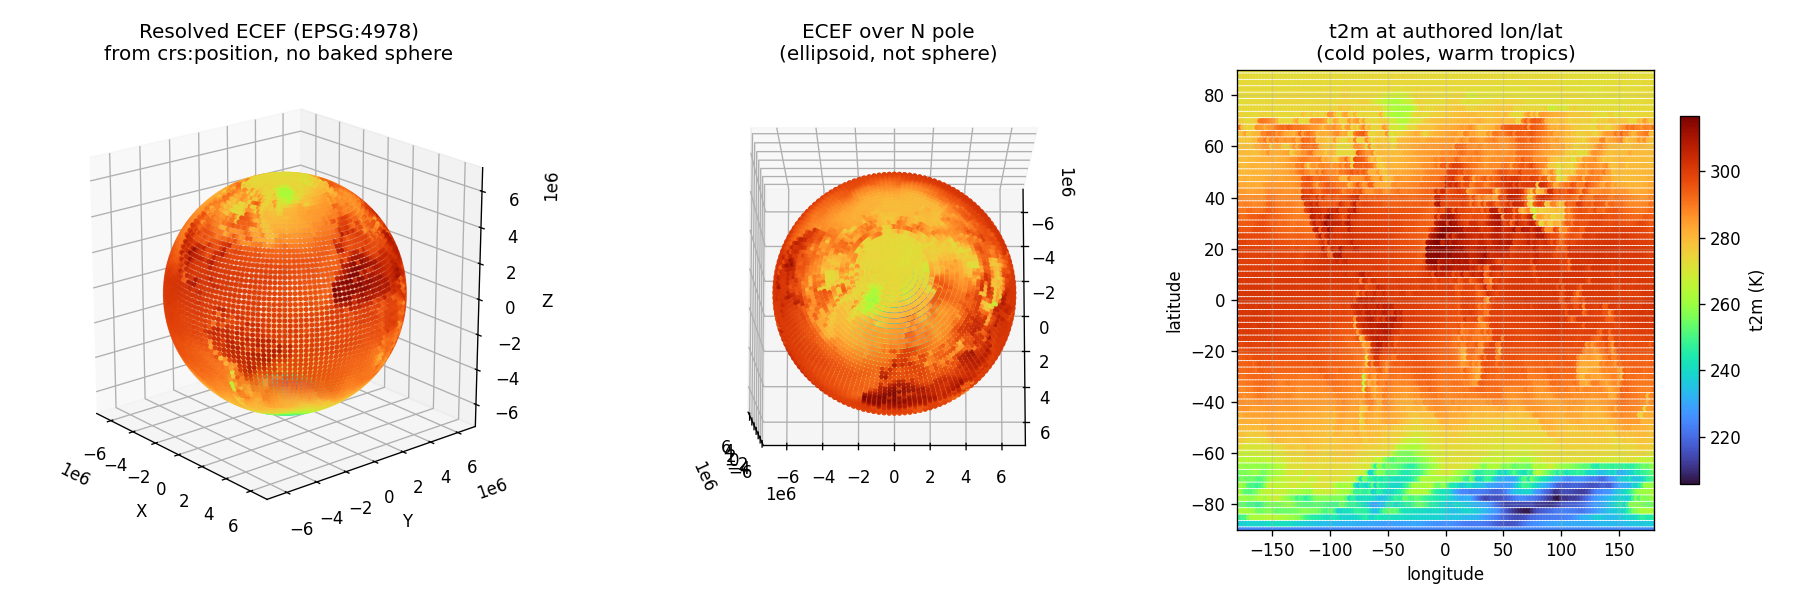
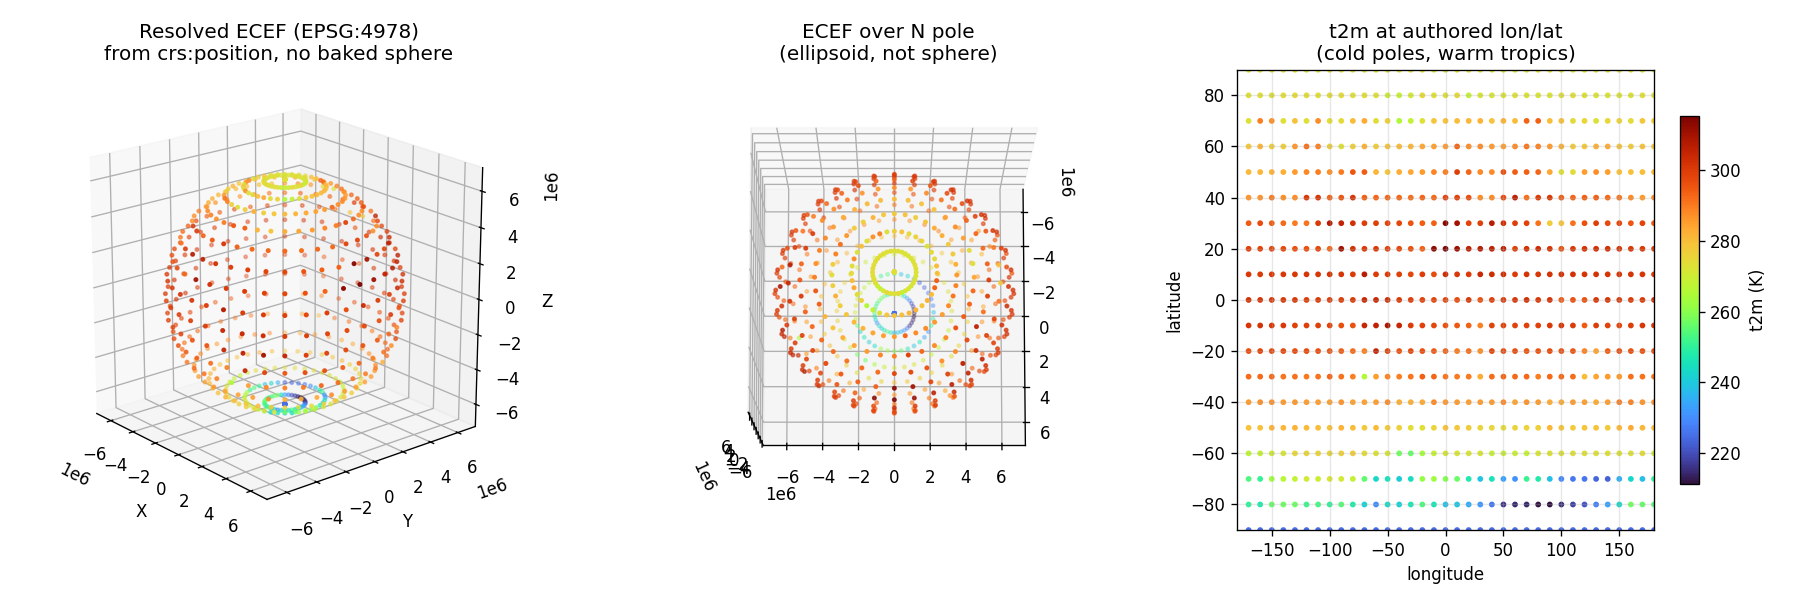
geospatial: add binding-semantics figure + embed images in TLDR; fix stale README
- New docs/binding_semantics.png: precedence ladder (purpose-coll > purpose-direct
  > all-coll > all-direct) + namespace strength, rendered LIVE from
  resolve_runtime.crs_of_prim via src/render_binding_semantics.py. The script
  self-asserts the figure equals the resolver output, so it cannot drift from code.
- Regenerated docs/evidence.png from current code (684 pts, flattening visible).
- README: embed the new figure with captions; fix stale 'direct-beats-collection'
  line (self-audit D0 corrected it to collection-beats-direct, rule [4]); add
  test_binding_composition.py to the evidence list.
- TLDR.md: add a Visual evidence section embedding all three images.

Changed region(s): [[0.6844, 0.12, 0.9644, 0.9], [0.4044, 0.27, 0.5911, 0.69], [0.0933, 0.27, 0.2489, 0.69]]

diff --git a/extras/usd/examples/usdGeospatialReencode/src/render_binding_semantics.py b/extras/usd/examples/usdGeospatialReencode/src/render_binding_semantics.py
@@ -1,0 +1,173 @@
+#!/usr/bin/env python3
+"""
+render_binding_semantics.py -- generate docs/binding_semantics.png, a data-driven
+figure of crs:binding resolution semantics. The "winner" cells are computed by the
+ACTUAL resolver (resolve_runtime.crs_of_prim) against a constructed stage, so the
+figure can never drift from the implementation -- if the resolver changes, rerun
+and the picture changes with it.
+
+Panels:
+  (1) Per-prim precedence ladder (UsdShadeMaterialBindingAPI parity), strongest->weakest:
+      purpose-collection > purpose-direct > all-collection > all-direct. Rule [4]:
+      at the SAME prim, a collection binding beats a direct binding.
+  (2) Namespace strength: nearest binding wins by default (weakerThanDescendants);
+      an ancestor marked strongerThanDescendants overrides closer descendants.
+"""
+import sys, os
+sys.path.insert(0, os.path.dirname(os.path.abspath(__file__)))
+import _schema_setup  # noqa
+import argparse
+import matplotlib
+matplotlib.use("Agg")
+import matplotlib.pyplot as plt
+from matplotlib.patches import FancyBboxPatch
+from pyproj import CRS
+from pxr import Usd, UsdGeom, Sdf, Gf
+import resolve_runtime as rr
+
+GEO = CRS.from_epsg(4979)
+
+
+def mkcrs(stage, path):
+    p = stage.DefinePrim(path, "CoordinateReferenceSystem")
+    p.CreateAttribute("crs:wkt", Sdf.ValueTypeNames.Token, False,
+                      Sdf.VariabilityUniform).Set(GEO.to_wkt(version="WKT2_2019"))
+    return p
+
+
+def winner(prim, purpose=""):
+    _, crs_path, bound, strength = rr.crs_of_prim(prim, purpose)
+    return (crs_path.name if crs_path else "None"), strength
+
+
+def build_precedence_stage():
+    """One prim carrying ALL four binding kinds; resolver picks the winner.
+    We then knock out the winner and re-resolve to reveal the next tier, giving
+    the true ladder order straight from the implementation."""
+    s = Usd.Stage.CreateInMemory()
+    UsdGeom.Xform.Define(s, "/W"); s.SetDefaultPrim(s.GetPrimAtPath("/W"))
+    UsdGeom.Scope.Define(s, "/W/CRS")
+    Ad = mkcrs(s, "/W/CRS/AllDirect")
+    Ac = mkcrs(s, "/W/CRS/AllColl")
+    Pd = mkcrs(s, "/W/CRS/PurpDirect")
+    Pc = mkcrs(s, "/W/CRS/PurpColl")
+    p = UsdGeom.Xform.Define(s, "/W/Site").GetPrim()
+    coll_all = Usd.CollectionAPI.Apply(p, "ca"); coll_all.CreateIncludesRel().SetTargets([p.GetPath()])
+    coll_pur = Usd.CollectionAPI.Apply(p, "cp"); coll_pur.CreateIncludesRel().SetTargets([p.GetPath()])
+    PURPOSE = "render"
+    rels = {
+        "all-direct":         ("crs:binding",                                 [Ad.GetPath()]),
+        "all-collection":     ("crs:binding:collection:ca",                   [coll_all.GetCollectionPath(), Ac.GetPath()]),
+        "purpose-direct":     (f"crs:binding:{PURPOSE}",                       [Pd.GetPath()]),
+        "purpose-collection": (f"crs:binding:collection:{PURPOSE}:cp",         [coll_pur.GetCollectionPath(), Pc.GetPath()]),
+    }
+    for _, (name, tgts) in rels.items():
+        p.CreateRelationship(name, False).SetTargets(tgts)
+    # Reveal the ladder: resolve, record winner, delete that rel, repeat.
+    crs_to_tier = {"PurpColl": "purpose-collection", "PurpDirect": "purpose-direct",
+                   "AllColl": "all-collection", "AllDirect": "all-direct"}
+    order = []
+    for _ in range(4):
+        w, _str = winner(p, PURPOSE)
+        tier = crs_to_tier.get(w)
+        order.append(tier)
+        p.RemoveProperty(rels[tier][0])  # knock out current winner
+    return order  # strongest -> weakest, as resolved
+
+
+def build_strength_stage():
+    s = Usd.Stage.CreateInMemory()
+    UsdGeom.Xform.Define(s, "/W"); s.SetDefaultPrim(s.GetPrimAtPath("/W"))
+    UsdGeom.Scope.Define(s, "/W/CRS")
+    near = mkcrs(s, "/W/CRS/Near")
+    far = mkcrs(s, "/W/CRS/Far")
+    anc = UsdGeom.Xform.Define(s, "/W/Anc").GetPrim()
+    mid = UsdGeom.Xform.Define(s, "/W/Anc/Mid").GetPrim()
+    leaf = UsdGeom.Xform.Define(s, "/W/Anc/Mid/Leaf").GetPrim()
+    leaf.CreateAttribute("crs:position", Sdf.ValueTypeNames.Double3, False).Set(Gf.Vec3d(-117, 34, 0))
+    # default case: ancestor Far(weaker) + nearer Mid Near -> nearest wins
+    anc.CreateRelationship("crs:binding", False).SetTargets([far.GetPath()])
+    mid.CreateRelationship("crs:binding", False).SetTargets([near.GetPath()])
+    default_w, _ = winner(leaf)
+    # stronger case: mark ancestor strongerThanDescendants -> ancestor overrides
+    anc.GetRelationship("crs:binding").SetMetadata("bindCRSAs", "strongerThanDescendants")
+    strong_w, _ = winner(leaf)
+    return default_w, strong_w
+
+
+def main(out="docs/binding_semantics.png"):
+    ladder = build_precedence_stage()
+    default_w, strong_w = build_strength_stage()
+
+    fig, (axL, axR) = plt.subplots(1, 2, figsize=(13, 6))
+    fig.suptitle("crs:binding resolution \u2014 computed by resolve_runtime.crs_of_prim "
+                 "(UsdShadeMaterialBindingAPI parity)", fontsize=12, fontweight="bold")
+
+    # --- Panel 1: precedence ladder ---
+    axL.set_title("(1) Per-prim precedence \u2014 strongest at top\n"
+                  "rule [4]: collection beats direct at the same prim", fontsize=10)
+    axL.set_xlim(0, 10); axL.set_ylim(0, 10); axL.axis("off")
+    colors = ["#1b7837", "#5aae61", "#a6dba0", "#d9f0d3"]
+    labels = {"purpose-collection": "purpose-specific COLLECTION",
+              "purpose-direct": "purpose-specific direct",
+              "all-collection": "all-purpose COLLECTION",
+              "all-direct": "all-purpose direct"}
+    for i, tier in enumerate(ladder):
+        y = 8.2 - i * 2.0
+        box = FancyBboxPatch((1, y), 8, 1.4, boxstyle="round,pad=0.1",
+                             fc=colors[i], ec="black", lw=1.2)
+        axL.add_patch(box)
+        rank = ["STRONGEST", "", "", "weakest"][i]
+        axL.text(5, y + 0.7, f"{i+1}.  {labels[tier]}", ha="center", va="center",
+                 fontsize=11, fontweight="bold" if i == 0 else "normal")
+        if rank:
+            axL.text(9.4, y + 0.7, rank, ha="left", va="center", fontsize=8, style="italic")
+        if i < 3:
+            axL.annotate("", xy=(0.6, y), xytext=(0.6, y - 0.6),
+                         arrowprops=dict(arrowstyle="->", color="gray"))
+    axL.text(5, 0.4, "(order read back from the live resolver, not hand-authored)",
+             ha="center", fontsize=8, color="gray", style="italic")
+
+    # --- Panel 2: namespace strength ---
+    axR.set_title("(2) Namespace strength\nnearest wins; strongerThanDescendants ancestor overrides",
+                  fontsize=10)
+    axR.set_xlim(0, 10); axR.set_ylim(0, 10); axR.axis("off")
+
+    def chain(x0, title, anc_label, leaf_label, win_label, win_color):
+        axR.text(x0 + 1.5, 9.3, title, ha="center", fontsize=10, fontweight="bold")
+        nodes = [("/W/Anc\n" + anc_label, 7.2, anc_label.endswith("(Far)")),
+                 ("/W/Anc/Mid\nbinding=Near", 5.0, False),
+                 ("/W/Anc/Mid/Leaf\n(resolve here)", 2.8, False)]
+        for txt, y, _ in nodes:
+            axR.add_patch(FancyBboxPatch((x0, y), 3, 1.4, boxstyle="round,pad=0.08",
+                                         fc="#eef", ec="black", lw=1))
+            axR.text(x0 + 1.5, y + 0.7, txt, ha="center", va="center", fontsize=8)
+        for ya, yb in [(7.2, 6.4), (5.0, 4.2)]:
+            axR.annotate("", xy=(x0 + 1.5, yb), xytext=(x0 + 1.5, ya),
+                         arrowprops=dict(arrowstyle="-", color="gray"))
+        axR.add_patch(FancyBboxPatch((x0, 1.0), 3, 1.0, boxstyle="round,pad=0.08",
+                                     fc=win_color, ec="black", lw=1.3))
+        axR.text(x0 + 1.5, 1.5, f"\u2192 winner: {win_label}", ha="center", va="center",
+                 fontsize=9, fontweight="bold")
+
+    chain(0.4, "default (weaker)", "binding=Far", "binding=Near", default_w, "#a6dba0")
+    chain(5.6, "ancestor strongerThanDescendants", "binding=Far\n[STRONGER]", "binding=Near",
+          strong_w, "#fdae61")
+
+    fig.tight_layout(rect=[0, 0, 1, 0.95])
+    os.makedirs(os.path.dirname(out) or ".", exist_ok=True)
+    fig.savefig(out, dpi=110)
+    print(f"[render] wrote {out}")
+    print(f"[render] ladder (strong->weak): {ladder}")
+    print(f"[render] strength: default winner={default_w} (want Near); "
+          f"stronger-ancestor winner={strong_w} (want Far)")
+    assert ladder == ["purpose-collection", "purpose-direct", "all-collection", "all-direct"], ladder
+    assert default_w == "Near" and strong_w == "Far"
+    print("[render] figure matches resolver semantics \u2713")
+
+
+if __name__ == "__main__":
+    ap = argparse.ArgumentParser()
+    ap.add_argument("--out", default="docs/binding_semantics.png")
+    a = ap.parse_args()
+    main(a.out)

diff --git a/extras/usd/examples/usdGeospatialReencode/README.md b/extras/usd/examples/usdGeospatialReencode/README.md
@@ -114,7 +114,13 @@ self-contained (no `PXR_PLUGINPATH_NAME` needed).
   auto-selected from longitude.
 * **Binding semantics** (`test_binding_semantics.py`): nearest-wins, ancestor
   `strongerThanDescendants` override, purpose selection + fallback, and
-  collection-member resolution with direct-beats-collection precedence — S1–S7 pass.
+  collection-member resolution. Per `UsdShadeMaterialBindingAPI` rule [4], a
+  collection binding on a prim is **stronger** than a direct binding on the same
+  prim — S1–S7 pass (the earlier "direct beats collection" claim was a self-audit
+  finding and is fixed; see `docs/self-audit-response.md`).
+* **Binding composition** (`test_binding_composition.py`): resolution respects USD
+  composition — stronger-sublayer override and relationship list-editing
+  (prepend/delete) on `crs:binding` targets — L1–L3 pass.
 * **EPSG/WKT consistency** — check **F**; **axis-order contract** — check **E**
   (both with deliberately-failing negative cases verified).
 * **Hero render** (`render_globe_ovrtx.py`): a globe mesh whose every vertex is
@@ -125,6 +131,14 @@ self-contained (no `PXR_PLUGINPATH_NAME` needed).
 ![evidence](docs/evidence.png)
 
 ![globe](docs/globe_render.png)
+
+![binding semantics](docs/binding_semantics.png)
+
+*Figures: (1) `evidence.png` — resolved ECEF geometry showing WGS84 flattening (a vs b);
+(2) `globe_render.png` — RTX path-traced hero globe built entirely from CRS-resolved
+vertices, colored by t2m; (3) `binding_semantics.png` — `crs:binding` precedence ladder
+and namespace-strength rules, **computed live by the resolver** so the figure can't drift
+from the code.*
 
 ## Status / next
 

diff --git a/extras/usd/examples/usdGeospatialReencode/docs/TLDR.md b/extras/usd/examples/usdGeospatialReencode/docs/TLDR.md
@@ -1,7 +1,20 @@
 # Geospatial CRS Prototype — Running TLDR
 
 _Living status doc. Updated as work proceeds. Maintained by claw1 (unattended runs)._
-_Last updated: 2026-06-23 ~07:35 UTC._
+_Last updated: 2026-06-23 ~15:00 UTC._
+
+## Visual evidence
+![evidence](evidence.png)
+![hero globe](globe_render.png)
+![binding semantics](binding_semantics.png)
+
+- **evidence.png** — resolved ECEF point cloud; WGS84 flattening visible (equatorial radius
+  a=6 378 137 m vs polar b=6 356 752 m) → a true georeferenced Earth, not a baked sphere.
+- **globe_render.png** — RTX path-traced hero globe whose every vertex came through the
+  `crs:position` → ECEF pipeline, colored by GFS t2m.
+- **binding_semantics.png** — `crs:binding` precedence ladder + namespace strength, rendered
+  live from `resolve_runtime.crs_of_prim` (regenerate via `src/render_binding_semantics.py`;
+  it self-asserts the picture equals the resolver, so it cannot go stale).
 
 ## One-paragraph status
 Adversarial review (`docs/codex-review.md`) flagged 3 top weaknesses; **all 3 fixed and
